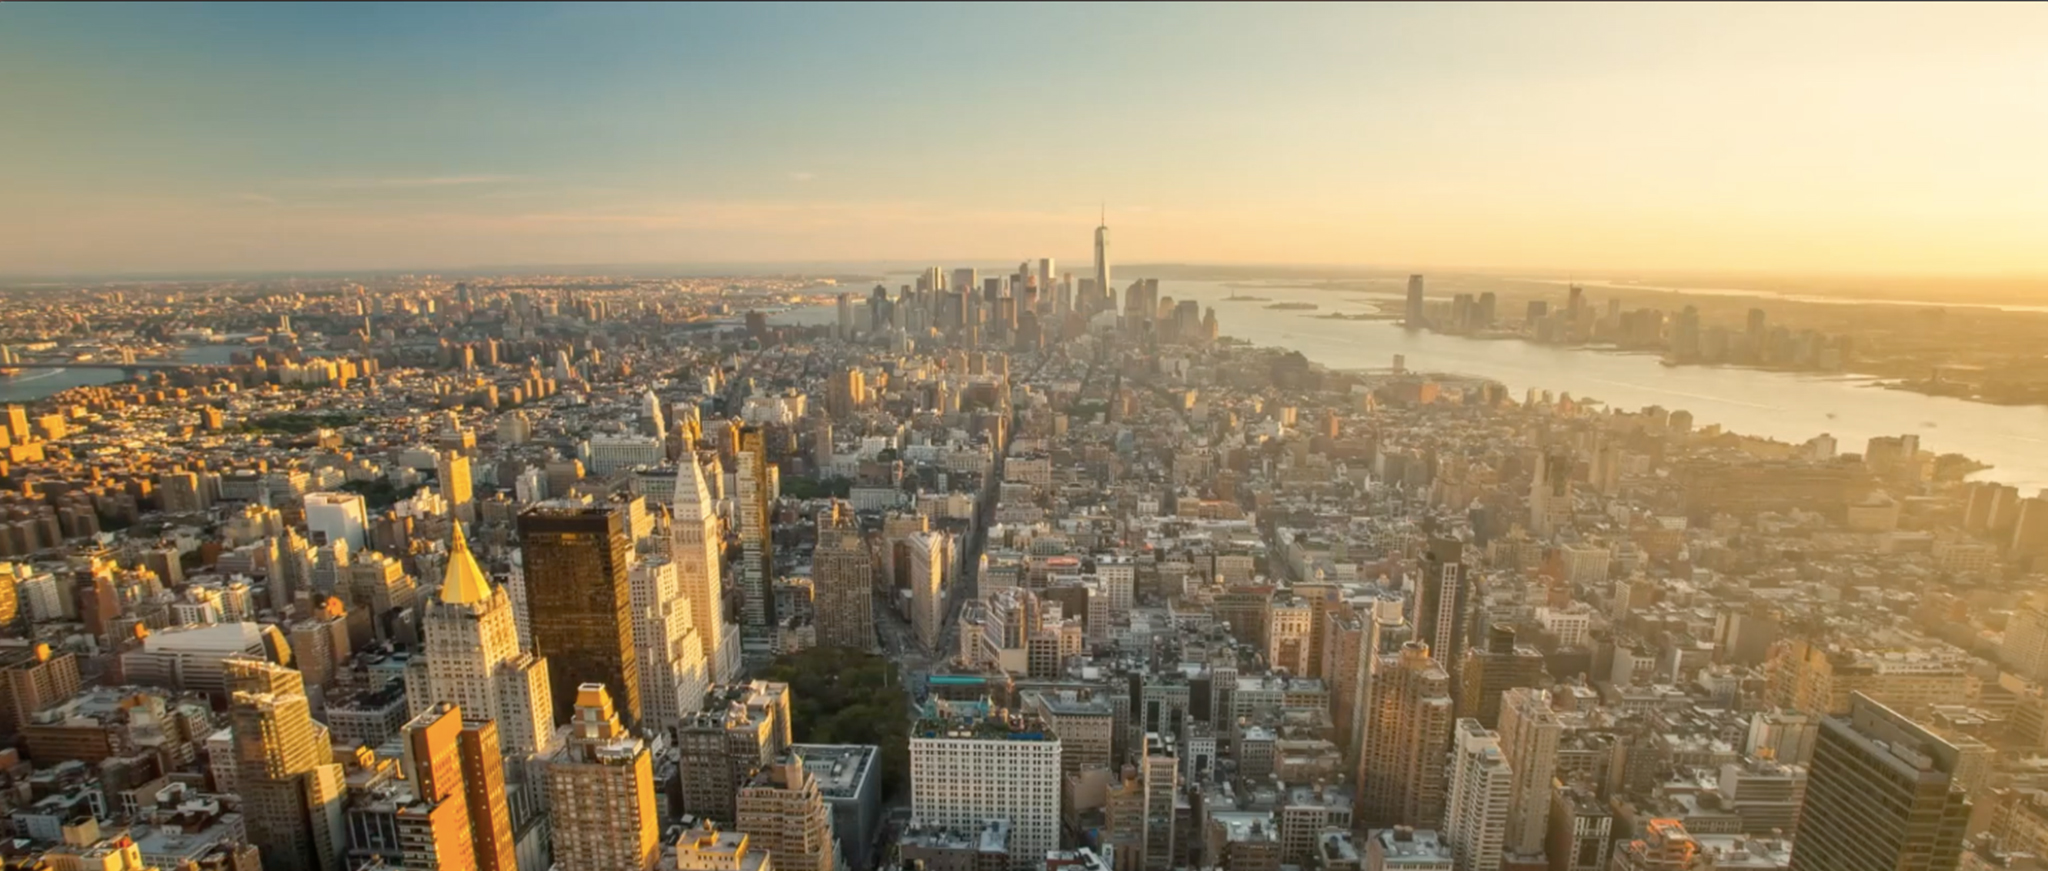
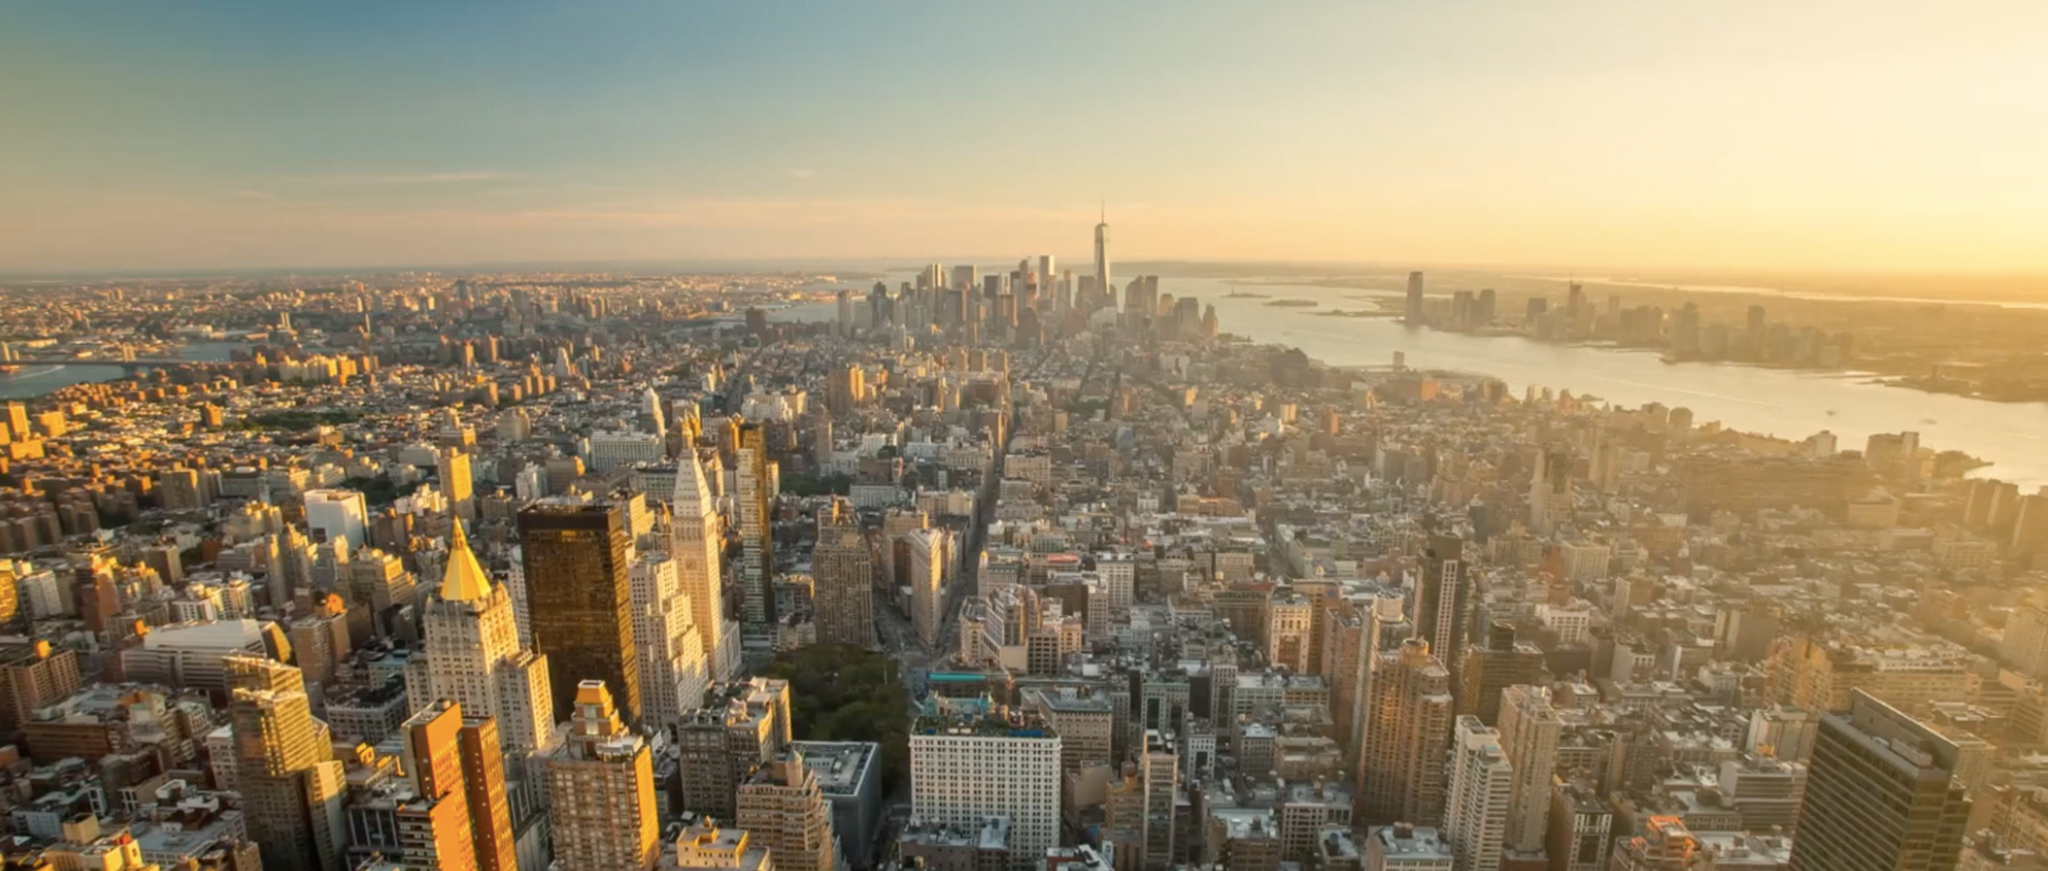
brought back team bg

diff --git a/public/stylesheets/style.css b/public/stylesheets/style.css
@@ -60,7 +60,7 @@ h6,
 
 #team-hero {
   min-height: 350px;
-  background-image:url('/images/shutterstock_441668059.jpg');
+  background-image:url('/images/team-hero-bg.jpg');
   background-size: cover;
   background-position: center;
 }
